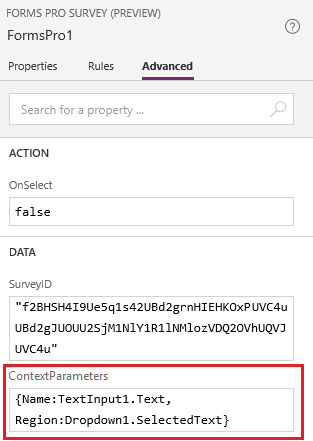
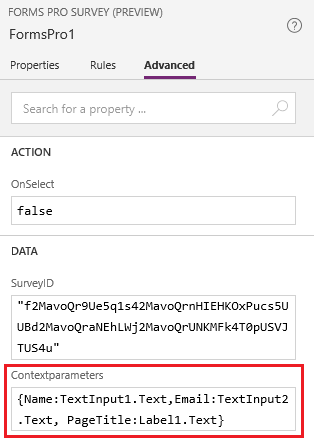
Image update

diff --git a/fp-docs/embed-survey-powerapps.md b/fp-docs/embed-survey-powerapps.md
@@ -48,12 +48,16 @@ You can embed your surveys in the canvas apps created using PowerApps. This allo
 
 6.	To define context parameters, go to the **Advanced** tab in the options pane.
 
-7.	In the **ContextParameters** field, enter context parameters as comma-separated key/value pairs. For example, `{Name:TextInput1.Text, Region:Dropdown1.SelectedText}`. Context parameters allow you to capture your respondent's information and the context in which the response was provided and store that data in the survey response. 
+7.	In the **ContextParameters** field, enter context parameters as comma-separated key/value pairs. For example, `{Name:TextInput1.Text,Email:TextInput2.Text, PageTitle:Label1.Text}`. 
+    Context parameters allow you to capture your respondent's information and the context in which the response was provided and store that data in the survey response. 
 
     > [!div class=mx-imgBorder]
     > ![Add context parameters](media/context-param.png "Add context parameters")
 
-    If a response contains embed parameters, they are displayed on the **Personalized data** tab.  
+    If a response contains embed parameters, they are displayed on the **Personalized data** tab. 
+
+    > [!div class=mx-imgBorder]
+    > ![Context parameters in a survey response](media/context-param-powerapps.png "Context parameters in a survey response") 
 
 ## See also
 

diff --git a/fp-docs/embed-web-page.md b/fp-docs/embed-web-page.md
@@ -6,7 +6,7 @@ author: sbmjais
 ms.author: shjais
 manager: shujoshi
 applies_to: 
-ms.date: 04/26/2019
+ms.date: 06/07/2019
 ms.service: forms-pro
 ms.topic: article
 ms.assetid: 649b3390-c3a5-4166-a014-ae3cfd14cc71
@@ -30,7 +30,7 @@ You can also select or define custom context parameters. Context parameters allo
 If a response contains embed parameters, they are displayed on the **Personalized data** tab.
 
 > [!div class=mx-imgBorder]
-> ![Context parameters in a survey response](media/survey-embed.png "Context parameters in a survey response")
+> ![Context parameters in a survey response](media/survey-response-context-param.png "Context parameters in a survey response")
 
 To embed your survey:
 
@@ -51,7 +51,7 @@ To embed your survey:
 5.  Select **Copy**, and then paste the embed code into a webpage to embed your survey. You must then update the webpage’s source code to render the survey on the webpage. For information on how to update the source code, see [Update a webpage's source code](#update-a-webpages-source-code).  
 
     > [!div class=mx-imgBorder]
-    > ![embed a survey in a web page](media/survey-response-context-param.png "Embed a survey in a web page")  
+    > ![embed a survey in a web page](media/survey-embed.png "Embed a survey in a web page")  
 
 ## Update a webpage's source code
 
